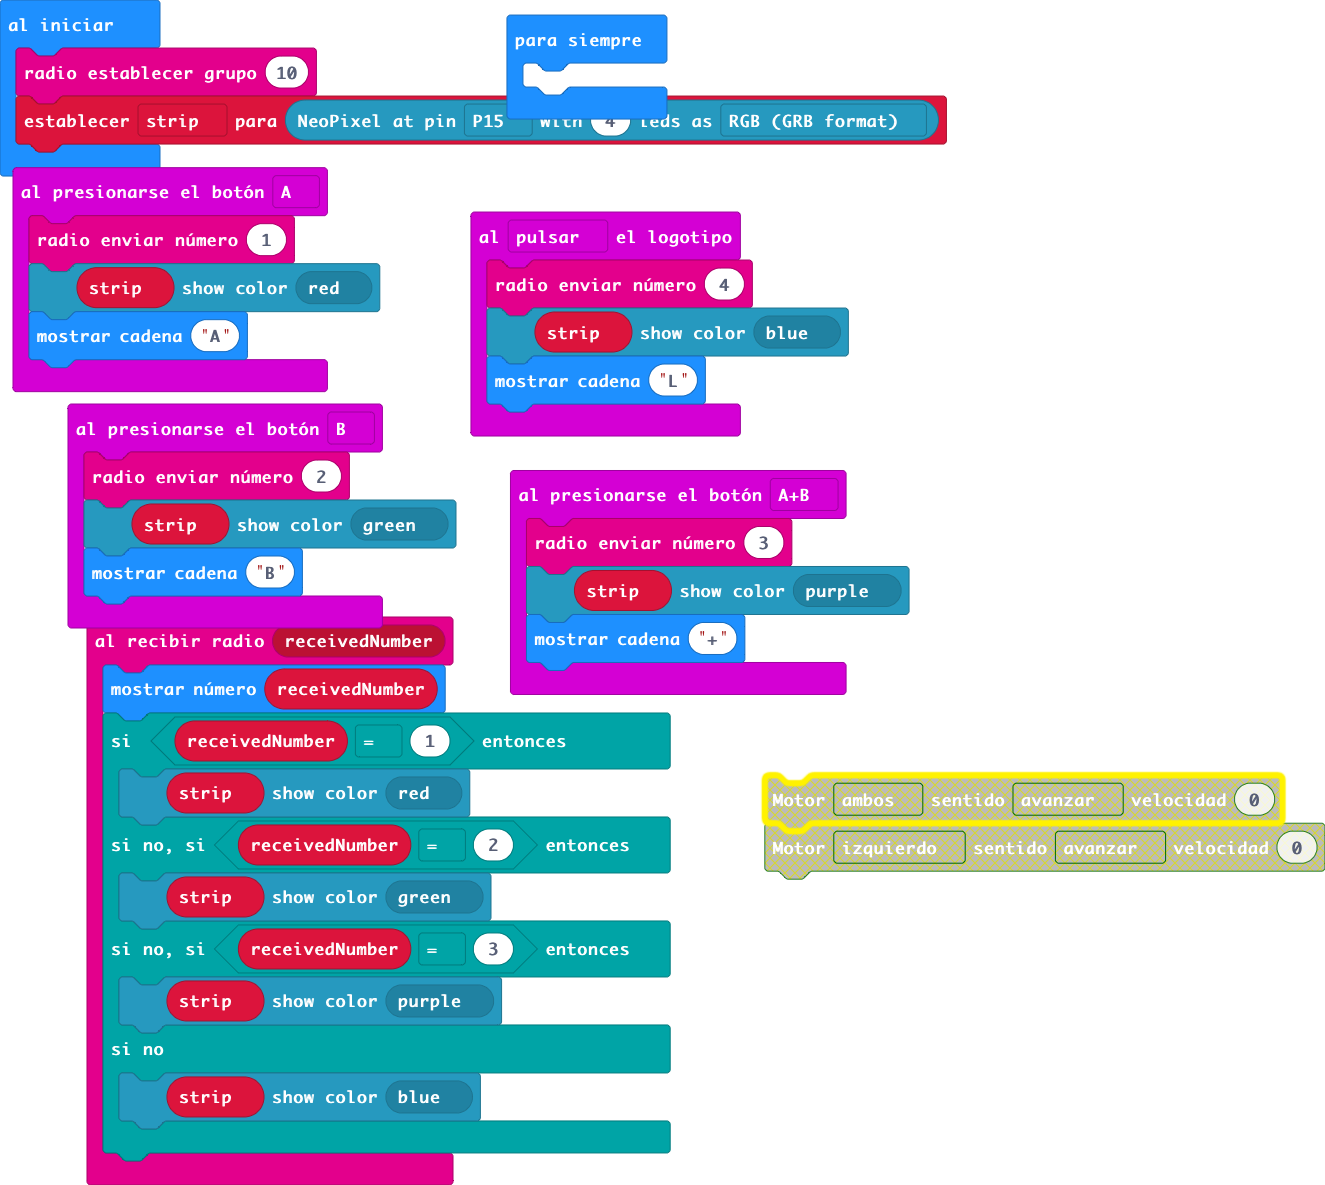
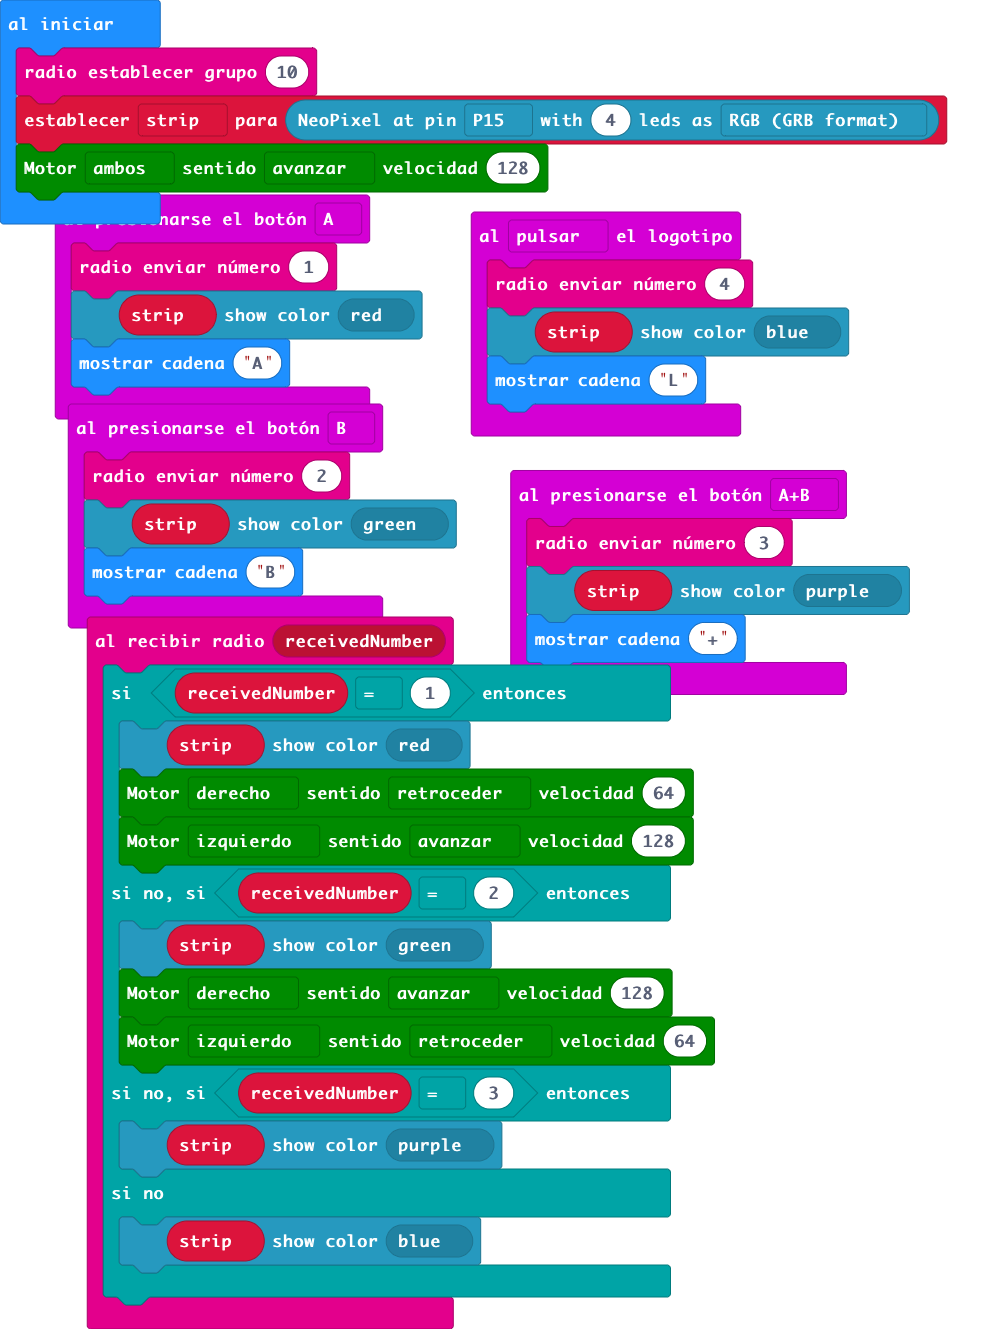
Ahora con motores

diff --git a/main.ts b/main.ts
@@ -1,9 +1,12 @@
 radio.onReceivedNumber(function (receivedNumber) {
-    basic.showNumber(receivedNumber)
     if (receivedNumber == 1) {
         strip.showColor(neopixel.colors(NeoPixelColors.Red))
+        maqueen.motorRun(maqueen.Motors.M2, maqueen.Dir.CCW, 64)
+        maqueen.motorRun(maqueen.Motors.M1, maqueen.Dir.CW, 128)
     } else if (receivedNumber == 2) {
         strip.showColor(neopixel.colors(NeoPixelColors.Green))
+        maqueen.motorRun(maqueen.Motors.M2, maqueen.Dir.CW, 128)
+        maqueen.motorRun(maqueen.Motors.M1, maqueen.Dir.CCW, 64)
     } else if (receivedNumber == 3) {
         strip.showColor(neopixel.colors(NeoPixelColors.Purple))
     } else {
@@ -33,6 +36,4 @@ input.onButtonPressed(Button.B, function () {
 let strip: neopixel.Strip = null
 radio.setGroup(10)
 strip = neopixel.create(DigitalPin.P15, 4, NeoPixelMode.RGB)
-basic.forever(function () {
-	
-})
+maqueen.motorRun(maqueen.Motors.All, maqueen.Dir.CW, 128)
